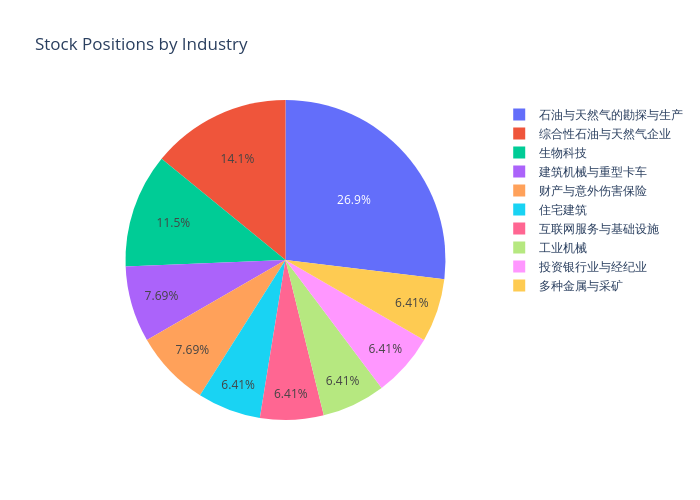
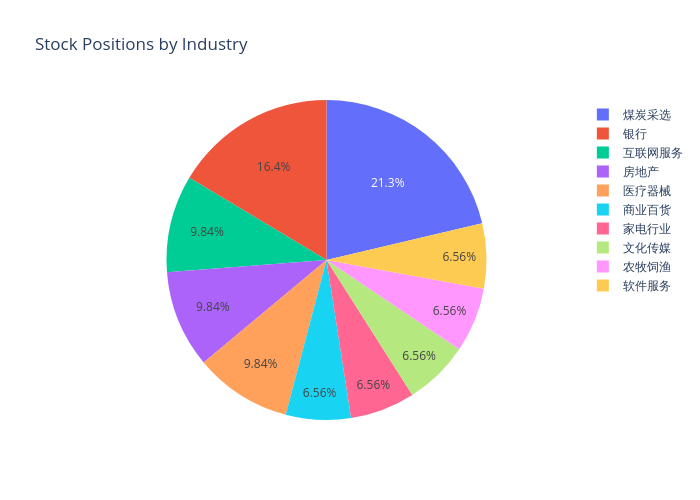
update

Changed region(s): [[0.18, 0.18, 0.99, 0.84], [0.54, 0.36, 0.57, 0.39]]

diff --git a/finance/utility/StockProposal.py b/finance/utility/StockProposal.py
@@ -15,6 +15,7 @@ import matplotlib.font_manager as fm
 from utility.MyEmail import MyEmail
 import plotly.graph_objects as go
 import plotly.express as px
+from datetime import datetime, timedelta
 
 mpl.rcParams["font.sans-serif"] = ["SimHei"]  # 用来正常显示中文标签
 
@@ -168,10 +169,10 @@ class StockProposal:
                     order by cnt desc limit 10"
             )
             df_display = sqlDF.toPandas()
+            # recent 1 month
             sqlDF_bydate = spark.sql(
-                " select buy_date, cnt from ( \
-                    select buy_date, count(*) as cnt from temp group by buy_date) \
-                    order by cnt desc limit 10"
+                "select buy_date, count(*) as cnt from temp where buy_date >= date_add(current_date(), -30) \
+                    group by buy_date order by buy_date "
             )
             df_displaybydate = sqlDF_bydate.toPandas()
             fig = px.pie(
@@ -185,15 +186,14 @@ class StockProposal:
             fig.update_traces(textposition="inside", textinfo="percent")
             fig.write_image("./postion_byindustry.png")
 
-            fig = px.pie(
+            fig = px.bar(
                 df_displaybydate,
-                values="cnt",
-                names="buy_date",
+                x="buy_date",
+                y="cnt",
                 title="Stock Positions by Purchase Date",
-                hover_data=["cnt"],
-                labels={"Purchase Date": "cnt"},
+                labels={"buy_date": "Purchase Date", "cnt": "Stock Sum"},
+                color="cnt",
             )
-            fig.update_traces(textposition="inside", textinfo="percent")
             fig.write_image("./postion_bydate.png")
 
             if self.market == "us":

diff --git a/finance/pyspark_test.py b/finance/pyspark_test.py
@@ -106,4 +106,4 @@ from utility.StockProposal import StockProposal
 # html = ""
 # image_path = ["./pyspark_test.png", "./pyspark_test1.png"]
 # MyEmail().send_email_embedded_image(subject, html, image_path)
-StockProposal("us", "20221011").send_btstrategy_by_email()
+StockProposal("cn", "20221012").send_btstrategy_by_email()
